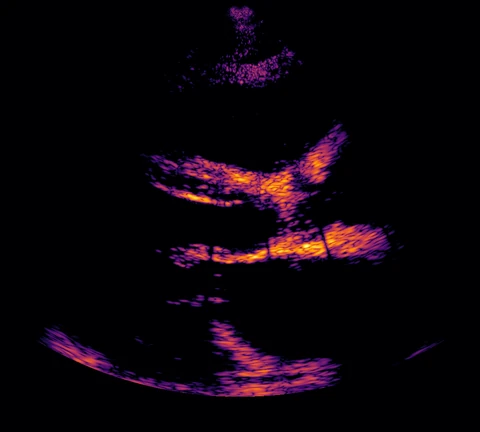
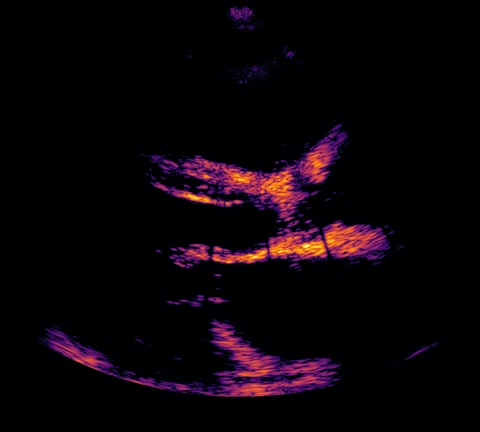
Exclude unconverged E6 sample

Changed region(s): [[0.4375, 0.0301, 0.625, 0.2106], [0.375, 0.1505, 0.4062, 0.2106]]

diff --git a/docs/index.html b/docs/index.html
@@ -190,14 +190,14 @@
           <div class="e6-control">
             <label for="e6-slider">posterior sample</label>
             <input class="e6-slider" data-e6="slider" id="e6-slider" type="range"
-                   min="1" max="16" step="1" value="1"
+                   min="1" max="15" step="1" value="1"
                    aria-label="Posterior sample" disabled>
             <output class="e6-readout" data-e6="readout" for="e6-slider"
-                    aria-live="polite">1 / 16</output>
+                    aria-live="polite">1 / 15</output>
           </div>
           <div class="e6-frame">
             <canvas data-e6="sample" width="480" height="432" role="img"
-                    aria-label="Beamformed posterior sample 1 of 16"></canvas>
+                    aria-label="Beamformed posterior sample 1 of 15"></canvas>
             <div class="e6-loading">loading posterior samples</div>
           </div>
         </div>
@@ -205,7 +205,7 @@
         <div class="e6-panel">
           <span class="e6-label">Posterior-mean loss</span>
           <div class="e6-frame">
-            <img src="static/e6/posterior_mean_residual.webp"
+            <img src="static/e6/posterior_mean_residual.webp?v=k15-no7"
                  width="480" height="432" loading="lazy" decoding="async"
                  alt="Beamformed residual between the posterior mean and ground truth">
           </div>
@@ -214,7 +214,7 @@
         <div class="e6-panel">
           <span class="e6-label">posterior variance</span>
           <div class="e6-frame">
-            <img src="static/e6/posterior_rms_spread.webp"
+            <img src="static/e6/posterior_rms_spread.webp?v=k15-no7"
                  width="480" height="432" loading="lazy" decoding="async"
                  alt="Beamformed posterior root-mean-square spread">
           </div>
@@ -257,8 +257,8 @@
 <script src="static/js/dps-viewer.js"></script>
 <script src="static/gallery/manifest.js"></script>
 <script src="static/js/gallery-viewer.js"></script>
-<script src="static/e6/manifest.js"></script>
-<script src="static/js/e6-viewer.js"></script>
+<script src="static/e6/manifest.js?v=k15-no7"></script>
+<script src="static/js/e6-viewer.js?v=k15-no7"></script>
 <script src="static/js/main.js"></script>
 </body>
 </html>

diff --git a/docs/static/e6/manifest.js b/docs/static/e6/manifest.js
@@ -1,1 +1,1 @@
-window.E6_MANIFEST={"format":"e6-site-assets-v1","tile":[480,432],"source_shape":[1039,1470],"crop":[0,991,184,1286],"dynamic_range_db":[-50.0,0.0],"measurement":"measurement.webp","samples":{"atlas":"posterior_samples.webp","count":16,"cols":4,"rows":4},"residual":"posterior_mean_residual.webp","spread":"posterior_rms_spread.webp","protocol":{"encoding":"focused","frame":0,"k":16,"likelihood":"unweighted","nb":8,"noise_model":"invivo-tgc-rms1-a918b13ed5","seed":1234,"snr_db":10.0,"t":1000,"transport":"euler","version":"e6-uncertainty-error-v1","video_id":"0X1015CA08CEBF3730","zeta":0.35},"metrics":{"dispersion_ratio":2.0623692302580303,"mean_spread":4.204552169539966e-05,"rmse_residual":0.0003498391207412228,"spearman_rho":0.9807207185873671},"definitions":{"multistatic_std":"sqrt(sum_k |x_k - x_bar|^2 / (K - 1)) for complex IQ","residual":"|B(x_bar - x_truth)|","spread":"sqrt(sum_k |B(x_k - x_bar)|^2 / (K - 1)); residuals are formed before beamforming"},"source_manifest":"eval/e6/results/runs/ad919cbd1250/manifest.json"};
+window.E6_MANIFEST={"format":"e6-site-assets-v1","tile":[480,432],"source_shape":[1039,1470],"crop":[0,991,184,1286],"dynamic_range_db":[-50.0,0.0],"measurement":"measurement.webp","samples":{"atlas":"posterior_samples.webp","count":15,"cols":4,"rows":4,"atlas_indices":[0,1,2,3,4,5,7,8,9,10,11,12,13,14,15]},"residual":"posterior_mean_residual.webp","spread":"posterior_rms_spread.webp","protocol":{"encoding":"focused","frame":0,"k":16,"likelihood":"unweighted","nb":8,"noise_model":"invivo-tgc-rms1-a918b13ed5","seed":1234,"snr_db":10.0,"t":1000,"transport":"euler","version":"e6-uncertainty-error-v1","video_id":"0X1015CA08CEBF3730","zeta":0.35},"metrics":{"dispersion_ratio":2.531636014368765,"mean_spread":3.1035768188303337e-05,"rmse_residual":0.0003385559975289777,"spearman_rho":0.9853041883131004},"definitions":{"multistatic_std":"sqrt(sum_k |x_k - x_bar|^2 / (K - 1)) for complex IQ","residual":"|B(x_bar - x_truth)|","spread":"sqrt(sum_k |B(x_k - x_bar)|^2 / (K - 1)); residuals are formed before beamforming"},"source_manifest":"eval/e6/results/runs/ad919cbd1250/manifest.json","analysis":{"posterior_samples":15,"excluded_sample_numbers":[7],"reason":"manually excluded for apparent DPS non-convergence"}};

diff --git a/docs/static/js/e6-viewer.js b/docs/static/js/e6-viewer.js
@@ -1,6 +1,6 @@
 /* E6 posterior ensemble viewer.
-   The 16 truth-scaled B-modes are packed into one 4x4 WebP atlas, so moving
-   the slider is an immediate canvas blit and never another network request. */
+   Fifteen retained truth-scaled B-modes are selected from one 4x4 WebP
+   atlas, so moving the slider is an immediate canvas blit. */
 
 (function () {
   "use strict";
@@ -23,6 +23,7 @@
   var tileHeight = manifest.tile[1];
   var count = manifest.samples.count;
   var columns = manifest.samples.cols;
+  var atlasIndices = manifest.samples.atlas_indices || null;
   var atlas = new Image();
   var ready = false;
   var started = false;
@@ -48,7 +49,7 @@
     );
     if (!ready) return;
 
-    var index = sample - 1;
+    var index = atlasIndices ? atlasIndices[sample - 1] : sample - 1;
     var sourceX = (index % columns) * tileWidth;
     var sourceY = Math.floor(index / columns) * tileHeight;
     context.clearRect(0, 0, tileWidth, tileHeight);
